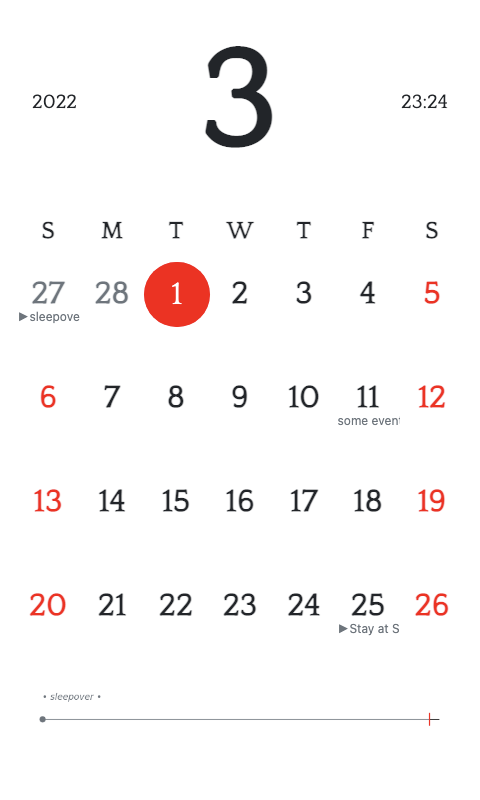
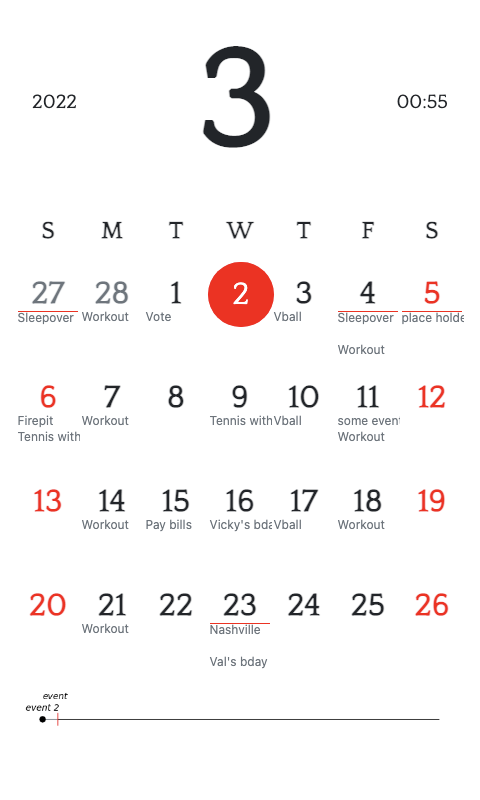
begin work on multidayline

diff --git a/render/calendar.html b/render/calendar.html
@@ -12,7 +12,7 @@
              style="display:flex;justify-content:space-between;">
             <div class="time-info">2022</div>
             <h3 class="month font-weight-bold mb-0 text-uppercase">3</h3>
-            <div class="time-info">23:24</div>
+            <div class="time-info">00:55</div>
         </div>
         <!-- Days of week -->
         <ol class="day-names list-unstyled text-center">
@@ -28,44 +28,56 @@
         <ol class="days list-unstyled">
             <li>
                 <div class="date text-muted">27</div>
-                <div class="event text-muted">►sleepover</div>
+                <div class="event text-muted"><p class="multiday">Sleepover</p></div>
             </li>
             <li>
                 <div class="date text-muted">28</div>
+                <div class="event text-muted">Workout</div>
             </li>
             <li>
-                <div class="datecircle">1</div>
+                <div class="date">1</div>
+                <div class="event">Vote</div>
             </li>
             <li>
-                <div class="date">2</div>
+                <div class="datecircle">2</div>
             </li>
             <li>
                 <div class="date">3</div>
+                <div class="event">Vball</div>
             </li>
             <li>
                 <div class="date">4</div>
+                <div class="event"><p class="multiday">Sleepover</p></div>
+                <div class="event">Workout</div>
             </li>
             <li>
                 <div class="date" style="color:red;">5</div>
+                <div class="event"><p class="multiday">place holder</p></div>
             </li>
             <li>
                 <div class="date" style="color:red;">6</div>
+                <div class="event">Firepit</div>
+                <div class="event">Tennis with Chloe</div>
             </li>
             <li>
                 <div class="date">7</div>
+                <div class="event">Workout</div>
             </li>
             <li>
                 <div class="date">8</div>
             </li>
             <li>
                 <div class="date">9</div>
+                <div class="event">Tennis with flake</div>
             </li>
             <li>
                 <div class="date">10</div>
+                <div class="event">Vball</div>
             </li>
             <li>
                 <div class="date">11</div>
                 <div class="event">some event</div>
+                <div class="event">Workout</div>
             </li>
             <li>
                 <div class="date" style="color:red;">12</div>
@@ -75,18 +87,23 @@
             </li>
             <li>
                 <div class="date">14</div>
+                <div class="event">Workout</div>
             </li>
             <li>
                 <div class="date">15</div>
+                <div class="event">Pay bills</div>
             </li>
             <li>
                 <div class="date">16</div>
+                <div class="event">Vicky's bday</div>
             </li>
             <li>
                 <div class="date">17</div>
+                <div class="event">Vball</div>
             </li>
             <li>
                 <div class="date">18</div>
+                <div class="event">Workout</div>
             </li>
             <li>
                 <div class="date" style="color:red;">19</div>
@@ -96,19 +113,21 @@
             </li>
             <li>
                 <div class="date">21</div>
+                <div class="event">Workout</div>
             </li>
             <li>
                 <div class="date">22</div>
             </li>
             <li>
                 <div class="date">23</div>
+                <div class="event"><p class="multiday">Nashville</p></div>
+                <div class="event">Val's bday</div>
             </li>
             <li>
                 <div class="date">24</div>
             </li>
             <li>
                 <div class="date">25</div>
-                <div class="event">►Stay at Stay in Heart of Nashville's Music Neighborhood 22</div>
             </li>
             <li>
                 <div class="date" style="color:red;">26</div>

diff --git a/render/styles.css b/render/styles.css
@@ -213,44 +213,10 @@ Calendar Styling */
     color: #ddd;
 }
 
-div.batt_container {
-    z-index: 10;
+.multiday {
+    border-top: 1px solid red;
+    margin-bottom: 0;
 }
-
-div.batt_container .battery80 {
-    position: relative;
-    left: 0px;
-    top: 0px;
-}
-
-div.batt_container .battery60 {
-    position: relative;
-    left: 0px;
-    top: -44px;
-}
-
-div.batt_container .battery40 {
-    position: relative;
-    left: 0px;
-    top: -89px;
-}
-
-div.batt_container .battery20 {
-    position: relative;
-    left: 0px;
-    top: -134px;
-}
-
-div.batt_container .battery0 {
-    position: relative;
-    left: 0px;
-    top: -178px;
-}
-
-div.batt_container .batteryHide {
-    display: none;
-}
-
 /*
 *
 * ==========================================

diff --git a/utils/date_parse.py b/utils/date_parse.py
@@ -1,6 +1,23 @@
 import datetime
 
 
+def enumerate_multiday_event(event_list: list) -> list:
+    enumerated_event_list = []
+    for event in event_list:
+        if event["isMultiday"]:
+            duration = event["endDatetime"] - event["startDatetime"]
+            enumerated_event = {}
+            for date in [event["startDatetime"].date() + datetime.timedelta(i) for i in range(duration.days)]:
+                enumerated_event["summary"] = event["summary"]
+                enumerated_event["startDatetime"] = date
+                enumerated_event["endDatetime"] = date + datetime.timedelta(1)
+                enumerated_event["isMultiday"] = True
+                enumerated_event_list.append(enumerated_event)
+
+        else:
+            enumerated_event_list.append(event)
+
+
 def generate_all_day_event_for_today_if_today_falls_between_multiday_event(event_list: list) -> list:
     modified_event_list = []
     today = datetime.datetime.now().date()
@@ -9,7 +26,7 @@ def generate_all_day_event_for_today_if_today_falls_between_multiday_event(event
             if event["startDatetime"].date() <= today <= event["endDatetime"].date():
                 modified_event = event.copy()
                 modified_event["startDatetime"] = datetime.datetime(today.year, today.month, today.day)
-                modified_event["endDatetime"] = datetime.datetime(today.year, today.month, today.day, 22, 00)
+                modified_event["endDatetime"] = datetime.datetime(today.year, today.month, today.day, 23, 59, 59)
                 modified_event["allday"] = True
                 modified_event_list.append(modified_event)
 

diff --git a/maginkcal.py b/maginkcal.py
@@ -16,7 +16,7 @@ from pytz import timezone
 
 from gcal.gcal import GcalHelper
 from render.render import RenderHelper
-from utils.date_parse import generate_all_day_event_for_today_if_today_falls_between_multiday_event
+from utils.date_parse import enumerate_multiday_event
 
 
 def main():
@@ -90,7 +90,7 @@ def main():
             calEndDatetime,
             displayTZ,
             thresholdHours)
-        eventList = generate_all_day_event_for_today_if_today_falls_between_multiday_event(eventList)
+        eventList = enumerate_multiday_event(eventList)
         logger.info("Calendar events retrieved in " +
                     str(dt.datetime.now() - start))
 

diff --git a/render/render.py b/render/render.py
@@ -185,7 +185,7 @@ class RenderHelper:
                     cal_events_text += ' text-muted'
                 if event['isMultiday']:
                     if event['startDatetime'].date() == currDate:
-                        cal_events_text += '">►' + event['summary']
+                        cal_events_text += f'"><p class="multiday">{event["summary"]}</p>'
                     else:
                         # calHtmlList.append(' text-multiday">')
                         cal_events_text += '">◄' + event['summary']
